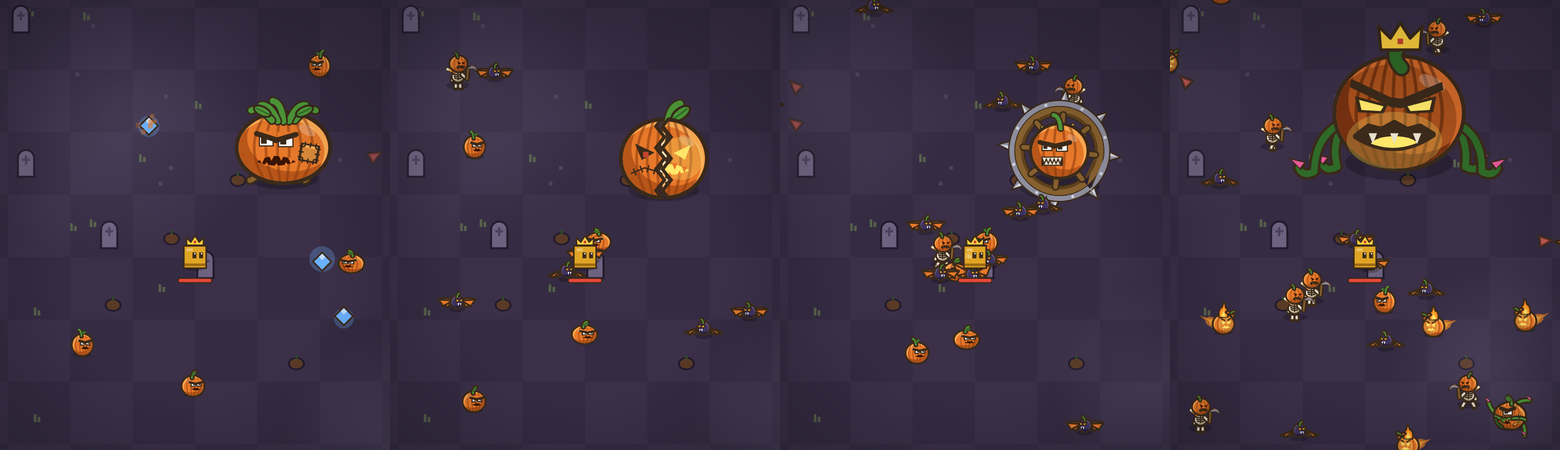
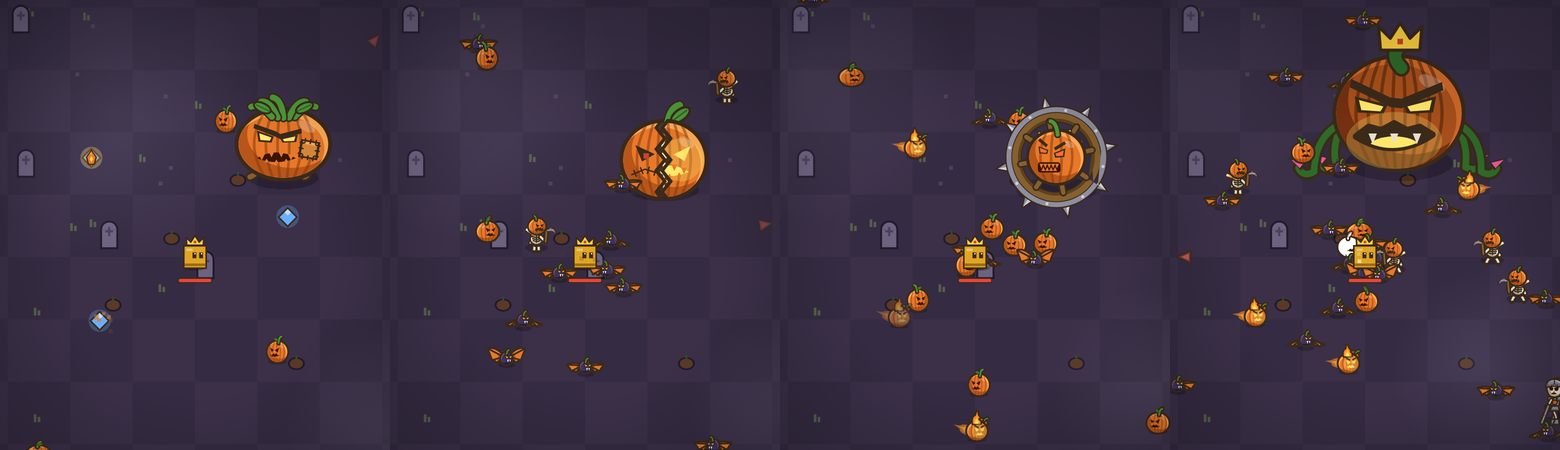
Dead eyes for every Halloween face; Skelly Knight replaces the Vine Gourd
- Pip: hollow carved eyes (the Candy Skel look) instead of glaring square eyes
- Patch Lord and Harvest Wheel: carved glowing eyes in the Night Gourd's form
  (new ceye helper), each with its own personality: Patch Lord squints in
  contempt under a crooked brow; Harvest Wheel's eyes glow ember-hot at a manic
  tilt and narrow to white-hot slits on the rev-up, with gritted carved teeth
- New Skelly Knight (sknight) takes the Vine Gourd's elite slot, numbers and
  snare role: original lanky skeleton knight (dead sockets, plumed helm,
  pumpkin-crest breastplate, cape, rusted sword). Grave Pin: raises its sword
  (tell, sockets kindle), then bone spikes erupt under the player
- Remove the unused white-eyeball eye() helper; style guide gains the
  dead-eyes rule; docs, review sheet and exports updated

diff --git a/public/index.html b/public/index.html
@@ -53,12 +53,12 @@ const EVQ=location.hostname==='crown-survivors.vercel.app'?null:new URLSearchPar
 const evState=e=>EVQ===e.id?'live':EVQ==='ended'?'ended':Date.now()<Date.parse(e.startAt)?'soon':Date.now()<Date.parse(e.endAt)?'live':'ended';
 const evLive=()=>EVENTS.find(e=>evState(e)==='live')||null,evPast=()=>EVENTS.filter(e=>evState(e)!=='soon').reverse(),evEnded=()=>EVENTS.some(e=>evState(e)==='ended');
 // ===== halloween endless ===== every number here comes from the balance table in docs/halloween-event.md
-Object.assign(ETYPE,{pip:{hp:8,spd:56,r:8,dmg:5,xp:1,c:'#e07820'},shade:{hp:6,spd:64,r:7,dmg:4,xp:1,c:'#2a2038'},cskel:{hp:34,spd:30,r:10,dmg:9,xp:3,c:'#e8e0cc'},jwisp:{hp:30,spd:70,r:8,dmg:9,xp:4,c:'#ffb13d',el:1},vgourd:{hp:60,spd:26,r:11,dmg:11,xp:5,c:'#3f8a3a',el:1}});
-Object.assign(GMAT,{pip:'pulp',shade:'red',cskel:'bone',jwisp:'pulp',vgourd:'pulp'});GORE.pulp={c:['#7a3208','#b0500e','#e07820','#ffb84a'],a:.9};
+Object.assign(ETYPE,{pip:{hp:8,spd:56,r:8,dmg:5,xp:1,c:'#e07820'},shade:{hp:6,spd:64,r:7,dmg:4,xp:1,c:'#2a2038'},cskel:{hp:34,spd:30,r:10,dmg:9,xp:3,c:'#e8e0cc'},jwisp:{hp:30,spd:70,r:8,dmg:9,xp:4,c:'#ffb13d',el:1},sknight:{hp:60,spd:26,r:11,dmg:11,xp:5,c:'#e8e0cc',el:1}});
+Object.assign(GMAT,{pip:'pulp',shade:'red',cskel:'bone',jwisp:'pulp',sknight:'bone'});GORE.pulp={c:['#7a3208','#b0500e','#e07820','#ffb84a'],a:.9};
 // cost = base × (1 + rankCost × (rank-1)); combo[rank-1][ritual] (rank 3+ reuses the last row); escorts get HW.escort of their HP
 const HW={drop:.3,embers:{elite:6,mini:15,gourd:30},cost:[40,70,110,160],rankCost:.5,countdown:2,bossHp:1,bossDmg:.2,escort:.6,crownGold:100,
  combo:[[['patch'],['twin'],['wheel'],['gourd']],[['patch','patch'],['twin','patch'],['wheel','twin'],['gourd','patch']],[['patch','twin'],['twin','wheel'],['wheel','twin','patch'],['gourd','wheel','twin']]],
- pool:[['pip','pip','pip','shade'],['pip','pip','shade','shade','cskel'],['pip','pip','shade','shade','cskel','jwisp'],['pip','shade','shade','cskel','cskel','jwisp','vgourd']]};
+ pool:[['pip','pip','pip','shade'],['pip','pip','shade','shade','cskel'],['pip','pip','shade','shade','cskel','jwisp'],['pip','shade','shade','cskel','cskel','jwisp','sknight']]};
 const HB={patch:{n:'PATCH LORD',hp:900,r:30,spd:36,dmg:18,c:'#d0661a'},twin:{n:'HOLLOW TWIN',hp:2400,r:30,spd:58,dmg:22,c:'#e07820'},wheel:{n:'HARVEST WHEEL',hp:4800,r:34,spd:44,dmg:26,c:'#8b6a42'},gourd:{n:'THE NIGHT GOURD',hp:10000,r:46,spd:30,dmg:30,c:'#c05812'}};
 // enemy scaling by tier = 4×(rank-1) + rituals cleared this rank (never elapsed time)
 const hwK=t=>({hp:1+1.4*t+.6*t*t,spd:Math.min(1.6,1+.06*t),dmg:1+.25*t,rate:Math.min(12,2+1.2*t)}),hwTier=()=>4*(G.hw.rank-1)+G.hw.step;
@@ -268,7 +268,7 @@ function update(dt){clock+=dt;if(trans){trans.t+=dt;if(trans.t>=.22&&!trans.done
    if(e.type==='harpy'&&l<190){sp*=-.2;e.shootT=(e.shootT||rnd(1,3))-dt;if(e.shootT<=0){e.shootT=rnd(3,4.5);const a0=Math.atan2(dy,dx);for(let i=-1;i<=1;i++)g.eb.push({x:e.x,y:e.y,vx:Math.cos(a0+i*.3)*120,vy:Math.sin(a0+i*.3)*120,r:4,dmg:e.dmg,l:3,c:'#eaf4ff'})}}
    if(e.type==='shade')sp*=1+.3*Math.sin(e.ph*5);
    if(e.type==='jwisp'){const a=Math.atan2(dy,dx)+(l<110?1.4:.6);e.x+=Math.cos(a)*sp*dt-dx/l*sp*dt;e.y+=Math.sin(a)*sp*dt-dy/l*sp*dt}
-   if(e.type==='vgourd'&&l<170){e.shootT-=dt;if(e.shootT<=0){e.shootT=rnd(4,6);tele({k:'c',x:p.x+rnd(-12,12),y:p.y+rnd(-12,12),r:26,T:1,dmg:e.dmg,c:'#7dff6a',slow:1.2,by:'horde',snd:()=>noise(.15,.08)})}}
+   if(e.type==='sknight'&&l<170){e.shootT-=dt;if(e.shootT<=0){e.shootT=rnd(4,6);tele({k:'c',x:p.x+rnd(-12,12),y:p.y+rnd(-12,12),r:26,T:1,dmg:e.dmg,c:'#efe6d2',slow:1.2,by:'horde',snd:()=>{noise(.12,.1);tone(900,.05,'square',.03,-400)}})}}
   if(e.boss)(e.hb?hwBossAI:bossAI)(e,dx,dy,l,dt);else{e.x+=dx/l*sp*dt;e.y+=dy/l*sp*dt}
   e.x+=e.kx*dt;e.y+=e.ky*dt;e.kx*=Math.pow(.02,dt);e.ky*=Math.pow(.02,dt);
   if(!e.boss&&e.type!=='ghost'){const cx=(e.x/CS)|0,cy=(e.y/CS)|0;for(let i=-1;i<=1;i++)for(let j=-1;j<=1;j++){const a=grid.get((cx+i)*7919+cy+j);if(a)for(const o of a){if(o===e)continue;const ox=e.x-o.x,oy=e.y-o.y,dd=ox*ox+oy*oy,rr2=(e.r+o.r)*.9;if(dd<rr2*rr2&&dd>.01){const d=Math.sqrt(dd),push=(rr2-d)*.5;e.x+=ox/d*push;e.y+=oy/d*push}}}}
@@ -370,7 +370,7 @@ function autopilot(){const g=G,p=g.p;let vx=0,vy=0;for(const e of g.en){const dx
 function hwInit(){const E=evLive();G.hw={ev:(E||EVENTS[0]).id,embers:0,got:0,rank:1,step:0,cleared:0,crowns:0,mini:0,gourds:0,first:null,live:[],hit:null,quit:0};G.curse=0;S.lastEvent=G.hw.ev;banner('GATHER SOUL EMBERS...','#ffb13d')}
 function hwSpawn(dt){const g=G,h=g.hw,t=hwTier(),k=hwK(t),pool=HW.pool[Math.min(t,HW.pool.length-1)];g.spawnAcc+=k.rate*(h.live.length?.55:1)*dt;
  while(g.spawnAcc>=1&&g.en.length<320){g.spawnAcc--;if(Math.random()<.04){for(let i=0;i<6;i++)spawnEnemy('shade')}else spawnEnemy(pool[Math.random()*pool.length|0])}
- g.eliteT-=dt;if(g.eliteT<=0){g.eliteT=42;spawnEnemy(t>=2?(Math.random()<.5?'jwisp':'vgourd'):pool[Math.random()*pool.length|0],true);banner('ELITE INCOMING!','#ff8a3d')}}
+ g.eliteT-=dt;if(g.eliteT<=0){g.eliteT=42;spawnEnemy(t>=2?(Math.random()<.5?'jwisp':'sknight'):pool[Math.random()*pool.length|0],true);banner('ELITE INCOMING!','#ff8a3d')}}
 function hwDrop(e){const n=e.hb?HW.embers[e.hb==='gourd'?'gourd':'mini']:e.elite?HW.embers.elite:(ETYPE[e.type]||{}).el?1:Math.random()<HW.drop?1:0,sp=n>1?(e.boss?40:14):0;
  for(let i=0;i<n;i++)G.gems.push({x:e.x+rnd(-sp,sp),y:e.y+rnd(-sp,sp),v:1,k:'ember'})}
 // rituals summon themselves: once embers cover the cost, a short countdown (the tell), then the bosses rise
@@ -486,15 +486,6 @@ function inkLine(P,w,c,rim=1.2){x.lineCap=x.lineJoin='round';x.beginPath();P();x
 const gloss=(cx,cy,rx,ry)=>{x.fillStyle=F('rgba(255,255,255,.24)');x.beginPath();x.ellipse(cx,cy,rx,ry,-.5,0,7);x.fill()};
 // pumpkin ribs inside an oval, in the ramp's deep tone; sh slides them sideways (a roll)
 function ribs(rx,ry,n,c,lw,sh=0){x.save();x.beginPath();oval(0,0,rx,ry)();x.clip();x.strokeStyle=F(c);x.lineWidth=lw;x.globalAlpha*=.55;for(let i=0;i<n;i++){const px=(((i+.5)/n+sh)%1*2-1)*rx*.95;x.beginPath();x.moveTo(px*.5,-ry);x.quadraticCurveTo(px*1.15,0,px*.5,ry);x.stroke()}x.restore()}
-// square eye looking forward (+x): o.lid 0..1 in o.lidC, o.brow angle (sign per side), o.white / o.pupil recolour it.
-// o.glare 0..1 cuts a slanted lid whose ink edge is the brow (low on the inner side: o.side -1 left eye, +1 right eye, 0 = one eye, V-shaped)
-function eye(cx,cy,w,h,o={}){x.fillStyle=pal.ink;x.fillRect(cx-w/2-.9,cy-h/2-.9,w+1.8,h+1.8);x.fillStyle=F(o.white||'#fff');x.fillRect(cx-w/2,cy-h/2,w,h);
- const pw=w*.46,ph=h*.62;x.fillStyle=o.pupil?F(o.pupil):pal.ink;x.fillRect(cx+w/2-pw-w*.08,cy-ph/2+h*.06,pw,ph);
- if(o.glare){const sd=o.side||0,g=h*o.glare,T0=cy-h/2-1.3,hi=cy-h/2+g*.12,lo=cy-h/2+g,L=cx-w/2-1.3,Rr=cx+w/2+1.3,yl=sd>0?lo:hi,yr=sd<0?lo:hi,ext=w*.14;
-  x.fillStyle=F(o.lidC);x.beginPath();x.moveTo(L,T0);x.lineTo(Rr,T0);x.lineTo(Rr,yr);if(!sd)x.lineTo(cx,lo);x.lineTo(L,yl);x.fill();
-  x.strokeStyle=pal.ink;x.lineWidth=(o.bw||1.1)*2;x.lineCap=x.lineJoin='round';x.beginPath();x.moveTo(L-ext,yl);if(!sd)x.lineTo(cx,lo);x.lineTo(Rr+ext,yr);x.stroke()}
- if(o.lid){x.fillStyle=F(o.lidC);x.fillRect(cx-w/2,cy-h/2,w,h*o.lid);x.fillStyle=pal.ink;x.fillRect(cx-w/2-.9,cy-h/2+h*o.lid-.7,w+1.8,1.4)}
- if(o.brow!=null){x.save();x.translate(cx,cy-h/2-(o.bg||1.8));x.rotate(o.brow);x.fillStyle=pal.ink;x.fillRect(-w*.7,-(o.bw||1.1),w*1.4,(o.bw||1.1)*2);x.restore()}}
 const tri=(cx,cy,s,c)=>{x.fillStyle=c;x.beginPath();x.moveTo(cx,cy-s);x.lineTo(cx-s,cy+s*.65);x.lineTo(cx+s,cy+s*.65);x.fill()};
 // carved jack-o'-lantern grin: a crescent with square teeth left in the skin colour
 function grin(cx,cy,w,h,c,teeth,skin){x.fillStyle=c;x.beginPath();x.moveTo(cx-w/2,cy-h*.3);x.quadraticCurveTo(cx,cy+h*.35,cx+w/2,cy-h*.3);x.quadraticCurveTo(cx,cy+h*1.05,cx-w/2,cy-h*.3);x.fill();
@@ -506,6 +497,11 @@ function snarl(cx,cy,w,h,c,skin,n=3){const L=cx-w/2,yc=cy+h*.2,top=t=>yc-1.5*h*t
 // angled carved eye: high outer corner, low inner corner (s -1 left eye, +1 right eye); rim > 0 adds an ink casing
 function slit(cx,cy,w,h,s,c,rim=0){const P=()=>{x.moveTo(cx+s*w/2,cy-h/2);x.lineTo(cx-s*w/2,cy+h*.05);x.lineTo(cx+s*w*.15,cy+h/2);x.closePath()};
  if(rim){x.lineJoin='round';x.fillStyle=x.strokeStyle=pal.ink;x.lineWidth=rim*2;x.beginPath();P();x.stroke();x.fill()}x.fillStyle=c;x.beginPath();P();x.fill()}
+// carved glowing eye in the Night Gourd's angular form: high outer corner, low inner corner (s -1 left, +1 right); c = glow colour
+function ceye(cx,cy,w,h,s,c){x.save();x.translate(cx,cy);x.scale(s,1);x.fillStyle=pal.ink;x.beginPath();x.moveTo(-w*.5,-h*.12);x.lineTo(w*.52,-h*.62);x.lineTo(w*.43,h*.32);x.lineTo(-w*.37,h*.4);x.fill();
+ x.fillStyle=c;x.beginPath();x.moveTo(-w*.36,-h*.04);x.lineTo(w*.38,-h*.4);x.lineTo(w*.31,h*.18);x.lineTo(-w*.27,h*.24);x.fill();x.restore()}
+// dead eye socket: a hollow with a slanted top (inner corner low) and a rounded bottom (s -1 left, +1 right)
+function socket(cx,cy,w,h,s,c){x.fillStyle=c;x.beginPath();x.moveTo(cx+s*w/2,cy-h/2);x.lineTo(cx-s*w/2,cy-h*.2);x.quadraticCurveTo(cx-s*w*.55,cy+h*.55,cx,cy+h/2);x.quadraticCurveTo(cx+s*w*.62,cy+h*.45,cx+s*w/2,cy-h/2);x.fill()}
 function stitch(x0,y0,x1,y1,n,w){x.strokeStyle=pal.ink;x.lineWidth=1.1;x.lineCap='round';x.beginPath();x.moveTo(x0,y0);x.lineTo(x1,y1);const dx=x1-x0,dy=y1-y0,L=Math.hypot(dx,dy)||1,nx=-dy/L*w,ny=dx/L*w;
  for(let i=0;i<n;i++){const t=(i+.5)/n,px=x0+dx*t,py=y0+dy*t;x.moveTo(px-nx,py-ny);x.lineTo(px+nx,py+ny)}x.stroke()}
 // curled stem rising from (x0,y0); k = curl direction
@@ -520,11 +516,11 @@ function flame(cx,by,w,h,sw,cols,rim=1.2){const P=k=>{const W2=w*k/2,H=h*k;x.mov
  x.lineJoin='round';if(rim){x.fillStyle=x.strokeStyle=pal.ink;x.lineWidth=rim*2;x.beginPath();P(1);x.stroke();x.fill()}cols.forEach((c,i)=>{x.fillStyle=F(c);x.beginPath();P(1-i*.3);x.fill()})}
 // --- trash + elite drawers: (r, frame 0-3, state 'n' | 't'), facing +x ---
 const SPRK={
- // PIP: mean little rolling pumpkin: glaring eyes, jagged scowl. Bounce squash/stretch, ribs scroll to fake the roll, leaf flips
+ // PIP: mean little rolling pumpkin: hollow carved eyes (the Candy Skel dead look), jagged scowl. Bounce squash/stretch, ribs scroll to fake the roll, leaf flips
  pip:(r,f)=>{const sy=[1,.9,1,1.08][f],rx=r*1.02,ry=r*.92;x.translate(0,[0,r*.1,0,-r*.12][f]);x.scale(1/sy,sy);
   shaded(oval(0,0,rx,ry),RAMP.pump,r*.26);ribs(rx,ry,4,RAMP.pump[3],r*.11,f/16);gloss(-r*.42,-r*.45,r*.2,r*.11);
   stemC(-r*.1,-ry,r*.55,f<2?1:-1);leaf(-r*.05,-ry-r*.08,r*.42,f%2?-.4:-.9);
-  eye(r*.04,-r*.2,r*.34,r*.36,{glare:.55,side:-1,lidC:RAMP.pump[1],bw:.9});eye(r*.55,-r*.22,r*.3,r*.36,{glare:.55,side:1,lidC:RAMP.pump[1],bw:.9});snarl(r*.28,r*.22,r*.92,r*.46,HOLLOW,RAMP.pump[1],3)},
+  slit(r*.05,-r*.16,r*.46,r*.42,-1,F(HOLLOW));slit(r*.56,-r*.18,r*.4,r*.38,1,F(HOLLOW));snarl(r*.28,r*.24,r*.92,r*.46,HOLLOW,RAMP.pump[1],3)},
  // SHADE BAT: purple-black bat, pumpkin-orange membranes over finger bones, a stem curl on its head, orange slit eyes (its accent)
  shade:(r,f)=>{const ty=[-r*1.05,-r*.25,r*.55,-r*.25][f],by=[r*.12,0,-r*.12,0][f];
   for(const s of[-1,1]){const S=[s*r*.3,by-r*.18],T=[s*r*1.95,by+ty],P1=[s*r*1.5,by+ty*.35+r*.5],P2=[s*r*1.0,by+ty*.15+r*.55],B=[s*r*.35,by+r*.3];
@@ -559,24 +555,41 @@ const SPRK={
   slit(r*.0,-r*.14,r*.46,r*.36,-1,F(GLOW));slit(r*.5,-r*.16,r*.4,r*.34,1,F(GLOW));x.fillStyle=pal.ink;
   x.save();x.translate(-r*.04,-r*.42);x.rotate(.5);x.fillRect(-r*.22,-r*.06,r*.44,r*.12);x.restore();x.save();x.translate(r*.54,-r*.44);x.rotate(-.5);x.fillRect(-r*.2,-r*.06,r*.4,r*.12);x.restore();
   snarl(r*.24,r*.24,r*.86,r*.44,F(GLOW),RAMP.pump[1],3)},
- // VINE GOURD: lumpy gourd strangled by a thorn vine, one big glaring eye above it, a fanged scowl below. Tendrils writhe;
- // on the tell they dig into the ground and the eye flares green
- vgourd:(r,f,st)=>{const T=st==='t',w=[0,1,2,1][f];
-  for(let i=0;i<3;i++){const a=[-2.5,-.55,2.2][i]+(T?0:(w-1)*.18*(i%2?1:-1)),L=r*1.75,tx=T?(i-1)*r*.9:Math.cos(a)*L,ty=T?r*1.15:Math.sin(a)*L,cx=Math.cos(a+.7)*r*1.2,cy=T?r*.5:Math.sin(a+.7)*r*1.2;
-   inkLine(()=>{x.moveTo(0,0);x.quadraticCurveTo(cx,cy,tx,ty)},r*.18,RAMP.stem[1]);
-   x.fillStyle=pal.ink;x.beginPath();x.moveTo(tx,ty+r*.06);x.lineTo(tx+r*.34,ty-r*.42);x.lineTo(tx-r*.16,ty-r*.16);x.fill();x.fillStyle=F(T?'#7dff6a':THORN);x.beginPath();x.moveTo(tx+r*.02,ty-r*.02);x.lineTo(tx+r*.25,ty-r*.33);x.lineTo(tx-r*.08,ty-r*.16);x.fill()}
-  // smooth lobes: quadratic curves through the midpoints of a bumpy ring
-  const pts=[];for(let i=0;i<10;i++){const a=i/10*6.283+.2,k=1+(i%2?.07:-.02)+(Math.sin(a)>0?.04:0);pts.push([Math.cos(a)*r*1.04*k,Math.sin(a)*r*.9*k])}
-  const lump=()=>{const m=i=>[(pts[i%10][0]+pts[(i+1)%10][0])/2,(pts[i%10][1]+pts[(i+1)%10][1])/2];x.moveTo(...m(0));for(let i=1;i<=10;i++)x.quadraticCurveTo(...pts[i%10],...m(i))};
-  shaded(lump,RAMP.pump,r*.24,1.8);ribs(r*1.04,r*.9,5,RAMP.pump[3],r*.08);
-  x.save();x.beginPath();lump();x.clip();x.fillStyle=F('rgba(47,106,40,.4)');[[-.62,.4,.24],[.55,.52,.18],[-.35,-.62,.16]].forEach(([a,b,c])=>{x.beginPath();x.ellipse(a*r,b*r,c*r,c*r*.7,.4,0,7);x.fill()});x.restore();
-  [[-.66,-.05],[.7,.15],[-.3,.66]].forEach(([a,b])=>{x.fillStyle=pal.ink;x.beginPath();x.arc(a*r,b*r,r*.1,0,7);x.fill();x.fillStyle=F(RAMP.pump[0]);x.beginPath();x.arc(a*r-r*.02,b*r-r*.02,r*.065,0,7);x.fill()});
-  inkLine(()=>{x.moveTo(-r*1.08,r*.3);x.bezierCurveTo(-r*.5,-r*.05,r*.3,r*.5,r*1.02,r*.05)},r*.13,RAMP.stem[1]);inkLine(()=>{x.moveTo(r*.55,r*.82);x.quadraticCurveTo(r*.95,r*.62,r*1.0,r*.25)},r*.1,RAMP.stem[2]);leaf(r*.25,r*.22,r*.42,.5);
-  for(const [px,py,a] of[[-r*.62,r*.18,-.5],[-r*.1,r*.26,.1],[r*.62,r*.22,-.3]]){x.save();x.translate(px,py);x.rotate(a);x.fillStyle=pal.ink;x.beginPath();x.moveTo(-r*.08,0);x.lineTo(0,-r*.24);x.lineTo(r*.08,0);x.fill();x.restore()}
-  eye(r*.16,-r*.3,r*.56,r*.46,{pupil:T?'#2f6a28':null,white:T?'#b8ff8a':'#fff',glare:T?.55:.42,side:0,lidC:RAMP.pump[1],bw:1.4});
-  snarl(r*.2,r*.44,r*.6,r*.34,HOLLOW,RAMP.pump[1],3);stemC(-r*.12,-r*.9,r*.5,1);leaf(-r*.04,-r*1.0,r*.45,-.7)}};
+ // SKELLY KNIGHT: a too-tall, too-thin skeleton knight. Oval skull with deep dead sockets and a fanged scowl, dented iron helm with a
+ // pumpkin-orange plume, breastplate stamped with a carved pumpkin crest, tattered night cape, a rusted sword dragged along the ground.
+ // Tell (Grave Pin): sword raised over the shoulder and the sockets kindle; bone spikes then erupt under the player
+ sknight:(r,f,st)=>{const T=st==='t',k=[1,0,-1,0][f],hb=[0,-r*.05,0,-r*.05][f],sw=[0,.12,0,-.12][f],bone=(P,w)=>inkLine(P,w,RAMP.bone[1]),sy=-r*1.4+hb;
+  // cape behind the shoulders, tattered hem swinging
+  x.fillStyle=pal.ink;const cape=()=>{x.beginPath();x.moveTo(-r*.26,-r*.72);x.quadraticCurveTo(-r*(.92+sw),-r*.1,-r*(.86+sw*1.5),r*.82);for(let i=0;i<4;i++)x.lineTo(-r*(.86+sw*1.5)+(i+.5)*r*.19,r*(i%2?.82:.64));x.lineTo(-r*.06,r*.36);x.closePath()};
+  x.lineJoin='round';x.lineWidth=2.4;x.strokeStyle=pal.ink;cape();x.stroke();x.fill();cape();x.fillStyle=F(RAMP.night[1]);x.fill();x.save();cape();x.clip();x.fillStyle=F(RAMP.night[2]);x.fillRect(-r*1.3,r*.2,r*1.4,r*.7);x.restore();
+  // long thin limbs: back arm, then legs with iron boots
+  bone(()=>{x.moveTo(-r*.24,-r*.62);x.lineTo(-r*.38-k*r*.08,-r*.22);x.lineTo(-r*.36-k*r*.12,r*.06)},r*.1);
+  for(const s of[-1,1]){const q=k*s,fx=s*r*.14+q*r*.26;bone(()=>{x.moveTo(s*r*.12,r*.06);x.lineTo(s*r*.12+q*r*.18,r*.5);x.lineTo(fx,r*.92)},r*.1);
+   shaded(()=>{x.moveTo(fx-r*.09,r*.76);x.lineTo(fx+r*.08,r*.76);x.lineTo(fx+r*.18,r*1.04);x.lineTo(fx-r*.12,r*1.04);x.closePath()},RAMP.iron,r*.04,1.2,0)}
+  // narrow breastplate, faulds, small pauldrons, carved pumpkin crest
+  shaded(()=>{x.moveTo(-r*.3,-r*.74);x.lineTo(r*.32,-r*.74);x.lineTo(r*.22,-r*.14);x.lineTo(-r*.2,-r*.14);x.closePath()},RAMP.iron,r*.09,1.4);
+  shaded(()=>{x.moveTo(-r*.21,-r*.16);x.lineTo(r*.23,-r*.16);x.lineTo(r*.27,r*.08);x.lineTo(-r*.25,r*.08);x.closePath()},RAMP.iron,r*.05,1.2,0);
+  for(const s of[-1,1])shaded(oval(s*r*.31,-r*.72,r*.14,r*.1),RAMP.iron,r*.04,1.2);
+  shaded(oval(r*.02,-r*.46,r*.13,r*.12),RAMP.pump,r*.04,1.1,0);slit(-r*.02,-r*.49,r*.08,r*.07,-1,F(HOLLOW));slit(r*.07,-r*.49,r*.07,r*.06,1,F(HOLLOW));
+  x.fillStyle=pal.ink;x.fillRect(-r*.05,-r*.9,r*.1,r*.18);x.fillStyle=F(RAMP.bone[1]);x.fillRect(-r*.03,-r*.88,r*.06,r*.05);
+  // front arm + rusted sword dragged point-down (on the tell it is raised in front of the skull, drawn last)
+  const blade=(x0,y0,x1,y1)=>{inkLine(()=>{x.moveTo(x0,y0);x.lineTo(x1,y1)},r*.11,RAMP.iron[1],1.3);inkLine(()=>{x.moveTo(x0+(x1-x0)*.15,y0+(y1-y0)*.15);x.lineTo(x0+(x1-x0)*.85,y0+(y1-y0)*.85)},r*.03,RAMP.iron[0],0);
+   x.fillStyle=F('#b0602a');x.fillRect(x0+(x1-x0)*.55-r*.04,y0+(y1-y0)*.55-r*.04,r*.08,r*.08)};
+  if(!T){bone(()=>{x.moveTo(r*.26,-r*.64);x.lineTo(r*.42,-r*.34);x.lineTo(r*.46,-r*.14)},r*.1);inkLine(()=>{x.moveTo(r*.32,-r*.16);x.lineTo(r*.62,-r*.18)},r*.07,RAMP.wood[1],1.1);blade(r*.47,-r*.2,r*.92,r*.96)}
+  // skull: tall oval, wider at the crown
+  x.save();x.translate(r*.04,sy);x.scale(.9,.9);const sk=()=>{x.moveTo(0,-r*.62);x.bezierCurveTo(r*.66,-r*.62,r*.62,r*.18,r*.3,r*.5);x.quadraticCurveTo(0,r*.64,-r*.3,r*.5);x.bezierCurveTo(-r*.62,r*.18,-r*.66,-r*.62,0,-r*.62);x.closePath()};
+  shaded(sk,RAMP.bone,r*.12,1.6);
+  socket(-r*.16,-r*.02,r*.34,r*.36,-1,F(HOLLOW));socket(r*.24,-r*.04,r*.3,r*.34,1,F(HOLLOW));
+  if(T){x.fillStyle=F(GLOW);x.beginPath();x.arc(-r*.14,r*.03,r*.06,0,7);x.arc(r*.23,r*.02,r*.055,0,7);x.fill()}
+  x.fillStyle=F(HOLLOW);x.beginPath();x.moveTo(r*.03,r*.14);x.lineTo(-r*.03,r*.26);x.lineTo(r*.09,r*.26);x.fill();snarl(r*.04,r*.31,r*.46,r*.24,F(HOLLOW),RAMP.bone[0],4);
+  // dented iron helm over the crown, pumpkin-orange plume streaming back
+  const hm=()=>{x.moveTo(-r*.6,-r*.2);x.bezierCurveTo(-r*.62,-r*.86,r*.62,-r*.86,r*.6,-r*.2);x.lineTo(r*.46,-r*.24);x.quadraticCurveTo(0,-r*.36,-r*.46,-r*.24);x.closePath()};
+  for(let i=0;i<3;i++){const L=r*(1.05-i*.2);inkLine(()=>{x.moveTo(0,-r*.66);x.quadraticCurveTo(-L*.45,-r*.92+i*r*.08,-L,-r*.5+i*r*.12+sw*r*.5)},r*(.16-i*.03),RAMP.pump[i],1.1)}
+  shaded(hm,RAMP.iron,r*.1,1.5);x.fillStyle=pal.ink;x.fillRect(-r*.04,-r*.76,r*.08,r*.5);[-.34,0,.34].forEach(v=>{x.fillStyle=F(RAMP.iron[0]);x.beginPath();x.arc(v*r,-r*.3,r*.035,0,7);x.fill()});
+  x.restore();
+  if(T){bone(()=>{x.moveTo(r*.26,-r*.64);x.lineTo(r*.52,-r*.9);x.lineTo(r*.58,-r*1.18)},r*.1);blade(r*.58,-r*1.22,r*.98,-r*2.18);inkLine(()=>{x.moveTo(r*.42,-r*1.2);x.lineTo(r*.76,-r*1.3)},r*.07,RAMP.wood[1],1.1)}}};
 // per drawer: frame rate (frames per unit of e.ph) and half-size of its cached box in radii (tight boxes keep blits cheap)
-const SPRF={pip:10,shade:14,cskel:6,jwisp:8,vgourd:5},SPRR={pip:1.6,shade:2.1,cskel:1.75,jwisp:2.45,vgourd:2.2};
+const SPRF={pip:10,shade:14,cskel:6,jwisp:8,sknight:6},SPRR={pip:1.6,shade:2.1,cskel:1.75,jwisp:2.45,sknight:2.35};
 // cache: one canvas per (type, r, frame, state, FL, scale bucket); keys carry the scale, so a resize just starts new entries
 const SPR=new Map();
 // frames render at the exact device scale and blit 1:1, so sampling is near pixel-exact (crisp, and cheap on CPU and GPU canvases)
@@ -584,9 +597,10 @@ function sprite(id,r,f,st){const s=Math.round((Math.abs(x.getTransform().a)||1)*
  if(!c){if(SPR.size>900)SPR.clear();const R=Math.ceil(r*SPRR[id]*s);c=document.createElement('canvas');c.width=c.height=R*2;const o=x;x=c.getContext('2d');try{x.setTransform(s,0,0,s,R,R);SPRK[id](r,f,st)}finally{x=o}SPR.set(key,c)}
  const h=c.width/2/s;x.drawImage(c,-h,-h,h*2,h*2)}
 function hwEnemyS(e,T,r,fl){if(scene==='play'&&G){const d=G.p.x-e.x;if(Math.abs(d)>3)e.fc=d<0?-1:1}if(e.fc<0)x.scale(-1,1);if(T==='jwisp'&&Math.sin(e.ph*9)>.85)x.globalAlpha=.55;
- FL=fl?1:0;sprite(T,r,((e.ph*SPRF[T])|0)&3,T==='vgourd'&&e.shootT<.5?'t':'n');FL=0;x.globalAlpha=1}
+ FL=fl?1:0;sprite(T,r,((e.ph*SPRF[T])|0)&3,T==='sknight'&&e.shootT<.5?'t':'n');FL=0;x.globalAlpha=1}
 // --- ritual bosses: drawn live (at most 3 on screen), poses read from the AI state (tell / next / dash / bph / vol / pose) ---
-// PATCH LORD: fat pumpkin tyrant, crown of curled stems, sewn-on cheek patch, glaring eyes, fanged scowl. Tell: rears up, eyes wide, roars, then slams
+// PATCH LORD: vain pumpkin tyrant, crown of curled stems, sewn-on cheek patch, carved glowing eyes (one squints in contempt) under a crooked brow,
+// fanged scowl. Tell: rears up, eyes blaze wide, roars, then slams
 function patchS(e,r){const T=e.tell>0&&e.next==='slam',s=T?Math.min(1,(.7-e.tell)/.5):0,ft=[0,1,0,-1][((e.ph*5)|0)&3];
  if(s){x.globalAlpha=.2*s;x.fillStyle=F(GLOW);x.beginPath();x.arc(0,-r*.1,r*1.5,0,7);x.fill();x.globalAlpha=.9*s;x.strokeStyle=F('#ffd23f');x.lineWidth=3;x.stroke();x.globalAlpha=1}
  for(const k of[-1,0,1]){const fy=r*.8+(k?ft*k*r*.06:0);inkLine(()=>{x.moveTo(k*r*.55,r*.5);x.quadraticCurveTo(k*r*.7,fy,k*r*.7+r*.16,fy+r*.04)},r*.13,RAMP.wood[1],1.5)}
@@ -595,7 +609,9 @@ function patchS(e,r){const T=e.tell>0&&e.next==='slam',s=T?Math.min(1,(.7-e.tell
  for(let i=-2;i<=2;i++){x.save();x.translate(i*rx*.16,-ry*.93);x.rotate(i*.32);stemC(0,0,r*.5,i<0?-1:1);x.restore()}leaf(-r*.35,-ry*.98,r*.42,-2.7);leaf(r*.35,-ry*.98,r*.42,-.45);
  x.save();x.translate(-r*.66,r*.14);x.rotate(-.18);x.fillStyle=pal.ink;x.fillRect(-r*.25,-r*.23,r*.5,r*.46);x.fillStyle=F('#d98a3a');x.fillRect(-r*.21,-r*.19,r*.42,r*.38);x.fillStyle=F(RAMP.pump[0]);x.fillRect(-r*.21,-r*.19,r*.42,r*.07);
  const q=r*.21;stitch(-q,-q,q,-q,3,r*.05);stitch(q,-q,q,q,3,r*.05);stitch(q,q,-q,q,3,r*.05);stitch(-q,q,-q,-q,3,r*.05);x.restore();
- eye(-r*.06,-r*.2,r*.34,r*.32,{glare:T?.2:.55,side:-1,lidC:RAMP.pump[1],bw:2});eye(r*.44,-r*.22,r*.32,r*.32,{glare:T?.2:.55,side:1,lidC:RAMP.pump[1],bw:2});
+ // carved glowing eyes under a crooked brow ridge: one squints in contempt, the other glares; both blaze wide on the tell
+ x.fillStyle=pal.ink;x.beginPath();x.moveTo(-r*.46,-r*.4);x.lineTo(r*.08,-r*.26);x.lineTo(r*.2,-r*.33);x.lineTo(r*.74,-r*.52);x.lineTo(r*.77,-r*.41);x.lineTo(r*.2,-r*.19);x.lineTo(r*.08,-r*.13);x.lineTo(-r*.47,-r*.28);x.fill();
+ ceye(-r*.14,-r*.12,r*.44,r*(T?.34:.2),-1,F(GLOW));ceye(r*.46,-r*.16,r*.42,r*(T?.38:.3),1,F(GLOW));
  snarl(r*.18,r*.28,r*1.0,r*(.4+.45*s),HOLLOW,RAMP.pump[1],4);x.restore()}
 // HOLLOW TWIN: one pumpkin split down a jagged crack. Far half: glowing carved glare and scowl; near half: stitched frown, one red eye in a hollow socket; pulp and seeds between.
 // Fan tell: the halves part and the seeds glow. Dash tell: it leans in
@@ -608,7 +624,8 @@ function twinS(e,r){const fan=e.tell>0&&e.next==='fan',s=fan?Math.min(1,(.5-e.te
   if(sd<0){gloss(-r*.55,-r*.45,r*.22,r*.12);x.globalAlpha=.28;x.fillStyle=F(GLOW);x.beginPath();x.arc(-r*.42,0,r*.55,0,7);x.fill();x.globalAlpha=1;slit(-r*.44,-r*.16,r*.44,r*.38,-1,F(GLOW));snarl(-r*.12,r*.22,r*1.0,r*.44,F(GLOW),RAMP.pump[1],4)}
   else{slit(r*.46,-r*.17,r*.5,r*.42,1,pal.ink);x.fillStyle=F('#c8452f');x.fillRect(r*.36,-r*.17,r*.14,r*.14);stitch(r*.12,r*.34,r*.46,r*.24,2,r*.08);stitch(r*.46,r*.24,r*.8,r*.38,2,r*.08)}
   x.beginPath();oval(0,0,r*1.02+3,r*.95+3)();x.clip();x.strokeStyle=pal.ink;x.lineWidth=5;x.lineJoin='miter';x.beginPath();Z.forEach(([a,b],i)=>i?x.lineTo(a,b):x.moveTo(a,b));x.stroke();x.restore()}}
-// HARVEST WHEEL: angry pumpkin hub in a spiked, iron-banded cartwheel with straw poking out. Rev-up: spokes blur and the face strains
+// HARVEST WHEEL: frenzied pumpkin hub in a spiked, iron-banded cartwheel with straw poking out; carved eyes glow ember-hot from the spin.
+// Rev-up: spokes blur and the eyes narrow to white-hot slits
 function wheelS(e,r){const rev=e.tell>0&&e.next==='roll'||e.dash>0;x.save();x.rotate(e.spin||0);
  for(let i=0;i<8;i++){const b=i*Math.PI/4,P=(m,o=0)=>[Math.cos(b+o)*r*m,Math.sin(b+o)*r*m];x.fillStyle=pal.ink;x.beginPath();x.moveTo(...P(1.08,.14));x.lineTo(...P(1.44,0));x.lineTo(...P(1.08,-.14));x.fill();
   x.fillStyle=F(RAMP.iron[1]);x.beginPath();x.moveTo(...P(1.1,.09));x.lineTo(...P(1.35,0));x.lineTo(...P(1.1,-.09));x.fill();x.fillStyle=F(RAMP.iron[0]);x.beginPath();x.moveTo(...P(1.1,.09));x.lineTo(...P(1.35,0));x.lineTo(...P(1.12,0));x.fill()}
@@ -619,8 +636,11 @@ function wheelS(e,r){const rev=e.tell>0&&e.next==='roll'||e.dash>0;x.save();x.ro
  if(rev){x.globalAlpha=.4;x.strokeStyle=F(RAMP.wood[0]);x.lineWidth=r*.3;for(let i=0;i<4;i++){x.beginPath();x.arc(0,0,r*.62,i*1.571,i*1.571+.9);x.stroke()}x.globalAlpha=1}x.restore();
  for(let i=0;i<5;i++){const b=-2.6+i*.55;inkLine(()=>{x.moveTo(Math.cos(b)*r*.35,Math.sin(b)*r*.35);x.lineTo(Math.cos(b)*r*.66,Math.sin(b)*r*.66)},r*.05,'#e8c860',.9)}
  const h=r*.58;shaded(oval(0,0,h*1.06,h),RAMP.pump,h*.24,2.4);ribs(h*1.06,h,4,RAMP.pump[3],h*.1);gloss(-h*.5,-h*.5,h*.22,h*.12);stemC(-h*.05,-h,h*.5,1);
- eye(-h*.1,-h*.18,h*.38,h*.34,{glare:rev?.72:.5,side:-1,lidC:RAMP.pump[1],bw:1.8});eye(h*.48,-h*.2,h*.34,h*.32,{glare:rev?.72:.5,side:1,lidC:RAMP.pump[1],bw:1.8});
- x.fillStyle=pal.ink;x.fillRect(-h*.14,h*.22,h*.84,h*.36);x.fillStyle=F(RAMP.bone[1]);for(let k=0;k<5;k++){const tx=-h*.1+k*h*.152;x.beginPath();x.moveTo(tx,h*.26);x.lineTo(tx+h*.152,h*.26);x.lineTo(tx+h*.076,h*.44);x.fill();
+ // overheated carved eyes at a manic tilt under sharp separate brows; they narrow to white-hot slits on the rev-up
+ const ec=F(rev?GLOW:HOT);ceye(-h*.12,-h*.12,h*.44,h*(rev?.18:.36),-1,ec);ceye(h*.5,-h*.24,h*.38,h*(rev?.16:.3),1,ec);
+ x.fillStyle=pal.ink;x.save();x.translate(-h*.14,-h*.44);x.rotate(.55);x.fillRect(-h*.24,-h*.06,h*.48,h*.12);x.restore();x.save();x.translate(h*.52,-h*.56);x.rotate(-.7);x.fillRect(-h*.2,-h*.06,h*.4,h*.12);x.restore();
+ // gritted carved teeth
+ rr(-h*.16,h*.2,h*.88,h*.4,h*.1,F(HOLLOW));x.fillStyle=F(RAMP.pump[1]);for(let k=0;k<5;k++){const tx=-h*.1+k*h*.152;x.beginPath();x.moveTo(tx,h*.26);x.lineTo(tx+h*.152,h*.26);x.lineTo(tx+h*.076,h*.44);x.fill();
   if(k<4){x.beginPath();x.moveTo(tx+h*.076,h*.54);x.lineTo(tx+h*.228,h*.54);x.lineTo(tx+h*.152,h*.38);x.fill()}}}
 // THE NIGHT GOURD: massive dark pumpkin, gold crown fused to a twisted stem, fanged maw glowing from inside (its one glow), thorn roots to the ground.
 // P2: glowing crack seams. P3: the top breaks open and burns, glow turns hot. Tells: maw opens (volley/spiral), roots glow (vines), eyes flare (rain), lean (charge)
@@ -655,20 +675,20 @@ function drawSheet(){const k=Math.min(W/1600,H/1100),u=U;x.fillStyle='#1c1624';x
  pix('HALLOWEEN ENEMIES',800,34,24,'#ffb13d',0,'#e07820');txt('Sprite Kit v2  ·  drawn by the live game code  ·  docs/sprite-kit.md',800,64,12,pal.paper,'center',false);
  rr(20,84,1010,566,14,'#3b3048',pal.ink,3);rr(250+6*108-50,98,100,544,10,'#f3e2b8');
  ['FRAME 1','FRAME 2','FRAME 3','FRAME 4','HIT FLASH','TELL','SILHOUETTE'].forEach((h,i)=>txt(h,250+i*108,108,9,i===6?'#8b6a3a':'#c9b8e8','center',false));
- [['pip','PIP','trash · fast fodder'],['shade','SHADE BAT','trash · flyer'],['cskel','CANDY SKEL','trash · walker'],['jwisp','JACK WISP','elite · elusive'],['vgourd','VINE GOURD','elite · snare']].forEach(([id,n,role],i)=>{
+ [['pip','PIP','trash · fast fodder'],['shade','SHADE BAT','trash · flyer'],['cskel','CANDY SKEL','trash · walker'],['jwisp','JACK WISP','elite · elusive'],['sknight','SKELLY KNIGHT','elite · grave pin']].forEach(([id,n,role],i)=>{
   const y=172+i*104,r=ETYPE[id].r,s=2.3;txt(n,36,y-12,15,'#ffb13d','left');txt(role,36,y+10,10,'#c9b8e8','left',false);
   for(let f=0;f<4;f++)at(250+f*108,y,s,()=>{sh(r);sprite(id,r,f,'n')});
   at(250+4*108,y,s,()=>{FL=1;sprite(id,r,0,'n');FL=0});
-  if(id==='vgourd')at(250+5*108,y,s,()=>{sh(r);sprite(id,r,1,'t')});else txt('—',250+5*108,y,14,'#6d6280','center',false);
+  if(id==='sknight')at(250+5*108,y,s,()=>{sh(r);sprite(id,r,1,'t')});else txt('—',250+5*108,y,14,'#6d6280','center',false);
   at(250+6*108,y,s,()=>{FL=2;sprite(id,r,0,'n');FL=0})});
  // phone scale: the same sprites at in-game size on the arena ground
  rr(1046,84,534,566,14,'#3b3048',pal.ink,3);txt('IN-GAME SCALE (PHONE)',1313,104,9,'#c9b8e8','center',false);
  x.save();x.beginPath();x.rect(1052,118,522,526);x.clip();x.translate(1052,118);x.scale(1.3,1.3);x.fillStyle=HPH.g;x.fillRect(0,0,410,410);
  for(let tx=0;tx<9;tx++)for(let ty=0;ty<9;ty++){if((tx+ty)&1){x.fillStyle=HPH.g2;x.fillRect(tx*48,ty*48,48,48)}hwProps(tx,ty,48,((tx*73856093)^(ty*19349663))>>>0)}
  heroS(200,200,0,1,clock*8,1,false);
- [['pip',118,118],['pip',150,175],['pip',262,142],['shade',300,88],['shade',96,252],['cskel',252,262],['cskel',140,305],['jwisp',330,215],['vgourd',78,158],['pip',308,322],['shade',190,92],['pip',220,345]].forEach(([id,px,py],i)=>{
+ [['pip',118,118],['pip',150,175],['pip',262,142],['shade',300,88],['shade',96,252],['cskel',252,262],['cskel',140,305],['jwisp',330,215],['sknight',78,158],['pip',308,322],['shade',190,92],['pip',220,345]].forEach(([id,px,py],i)=>{
   const r=ETYPE[id].r;x.save();x.translate(px,py);sh(r);if(px>200)x.scale(-1,1);if(id==='jwisp'&&Math.sin(clock*9+i)>.85)x.globalAlpha=.55;sprite(id,r,((clock*SPRF[id]+i)|0)&3,'n');x.restore()});
- x.save();x.translate(345,345);const er=ETYPE.vgourd.r*1.8;sh(er);x.strokeStyle='rgba(255,210,63,'+(.5+.4*Math.sin(clock*8))+')';x.lineWidth=2;x.beginPath();x.arc(0,0,er+4,0,7);x.stroke();x.scale(-1,1);sprite('vgourd',er,((clock*5)|0)&3,'n');x.restore();
+ x.save();x.translate(345,345);const er=ETYPE.sknight.r*1.8;sh(er);x.strokeStyle='rgba(255,210,63,'+(.5+.4*Math.sin(clock*8))+')';x.lineWidth=2;x.beginPath();x.arc(0,0,er+4,0,7);x.stroke();x.scale(-1,1);sprite('sknight',er,((clock*6)|0)&3,'n');x.restore();
  x.restore();txt('elite (8× HP) shown bottom-right',1313,632,9,'#c9b8e8','center',false);
  // ritual bosses: poses straight from the AI state
  [['patch','PATCH LORD','MINI-BOSS · M1',[{},{tell:.25,next:'slam'}],['IDLE','SLAM TELL'],1.6],['twin','HOLLOW TWIN','MINI-BOSS · M2',[{},{tell:.2,next:'fan'},{tell:.4,next:'dash'}],['IDLE','FAN TELL','DASH TELL'],1.45],
@@ -727,7 +747,7 @@ function drawWorld(){const g=G,p=g.p,ph=g.hw?HPH:PHASE[Math.min(PHASE.length-1,g
  for(const q of g.gems)if(Math.abs(q.x-p.x)<vw&&Math.abs(q.y-p.y)<vh)gemS(q);
  const vis=g.en.filter(e=>Math.abs(e.x-p.x)<vw&&Math.abs(e.y-p.y)<vh).sort((a,b)=>a.y-b.y);x.imageSmoothingEnabled=false;for(const e of vis)enemyS(e);x.imageSmoothingEnabled=true;
  if(!(p.inv>0&&Math.sin(clock*50)>0))heroS(p.x,p.y,g.char,1,p.walk,p.face,(clock%3.2)<.1);
- if(p.snare>0){x.globalAlpha=Math.min(1,p.snare*2);x.strokeStyle=pal.ink;x.lineWidth=3.5;x.beginPath();x.ellipse(p.x,p.y+8,12,4.5,0,0,7);x.stroke();x.strokeStyle='#7dff6a';x.lineWidth=1.8;x.setLineDash([3,2]);x.stroke();x.setLineDash([]);x.globalAlpha=1}
+ if(p.snare>0){x.globalAlpha=Math.min(1,p.snare*2);x.strokeStyle=pal.ink;x.lineWidth=3.5;x.beginPath();x.ellipse(p.x,p.y+8,12,4.5,0,0,7);x.stroke();x.strokeStyle='#efe6d2';x.lineWidth=1.8;x.setLineDash([3,2]);x.stroke();x.setLineDash([]);x.globalAlpha=1}
  if(g.w.orb){const l=g.w.orb,n=g.evo.orb?8:[1,2,2,3,5][l-1],R=(g.evo.orb?75:48)*SC.area;for(let i=0;i<n;i++){const a=g.orbA+i*6.283/n,ox=p.x+Math.cos(a)*R,oy=p.y+Math.sin(a)*R;x.fillStyle=pal.ink;x.beginPath();x.arc(ox,oy,7*SC.area,0,7);x.fill();x.fillStyle=pal.gold;x.beginPath();x.arc(ox,oy,5.5*SC.area,0,7);x.fill();x.fillStyle='#e0a526';x.fillRect(ox-1,oy-3,2,6)}}
  for(const b of g.pr){if(b.t==='bolt'){x.fillStyle='rgba(255,243,196,.5)';x.beginPath();x.arc(b.x-b.vx*.02,b.y-b.vy*.02,b.r*.8,0,7);x.fill();x.fillStyle=pal.ink;x.beginPath();x.arc(b.x,b.y,b.r+1,0,7);x.fill();x.fillStyle=g.evo.bolt?'#ff8a3d':pal.gold;x.beginPath();x.arc(b.x,b.y,b.r,0,7);x.fill()}
   else{x.save();x.translate(b.x,b.y);x.rotate(clock*15);const s=b.r;x.fillStyle=pal.ink;x.fillRect(-s-1,-s*.3-1,2*s+2,s+2);x.fillStyle='#c9a0ff';x.beginPath();x.moveTo(-s,s*.5);x.lineTo(-s,-s*.5);x.lineTo(-s*.5,0);x.lineTo(0,-s*.7);x.lineTo(s*.5,0);x.lineTo(s,-s*.5);x.lineTo(s,s*.5);x.fill();x.restore()}}
@@ -805,7 +825,7 @@ function drawOver(){const g=G,o=g.over;if(g.hw)return hwOver();const {px,pw}=pan
  overButtons(()=>go('play',startRun),'#c8452f')}
 // ===== menus =====
 // while an event is live the menus wear its skin: warm parchment checker (per the v0 direction), its roster orbiting, dusk vignette
-const EVSKIN={halloween:{g:'#e6be86',g2:'#d9a86a',orbit:['pip','shade','cskel','jwisp','vgourd'],vig:'rgba(45,12,40,.78)'}};
+const EVSKIN={halloween:{g:'#e6be86',g2:'#d9a86a',orbit:['pip','shade','cskel','jwisp','sknight'],vig:'rgba(45,12,40,.78)'}};
 function menuBg(){const E=evLive(),sk=E&&EVSKIN[E.theme],ph=sk||PHASE[Math.abs(Math.floor(clock/12))%PHASE.length];x.fillStyle=ph.g;x.fillRect(0,0,W,H);const T=48*U,o=clock*20*U;for(let i=-1;i<W/T+1;i++)for(let j=-1;j<H/T+1;j++){if((i+j)&1){x.fillStyle=ph.g2;x.fillRect(i*T-(o%T),j*T+(o%T),T,T)}}
  const orb=sk?sk.orbit:['blob','bat','skel','ghost','imp','vine','frog','wisp','harpy'];for(let i=0;i<14;i++){const a=clock*.5+i*.45,R=(140+(i%3)*30)*U;const ex=W/2+Math.cos(a)*R,ey=H*.42+Math.sin(a)*R*.7;x.save();x.translate(ex,ey);x.scale(U*1.4,U*1.4);enemyS({type:orb[i%orb.length],x:0,y:0,r:9,ph:clock+i,flash:0});x.restore()}
  const vg=x.createRadialGradient(W/2,H/2,Math.min(W,H)*.3,W/2,H/2,Math.max(W,H)*.75);vg.addColorStop(0,'rgba(0,0,0,0)');vg.addColorStop(1,sk?sk.vig:'rgba(30,15,5,.7)');x.fillStyle=vg;x.fillRect(0,0,W,H)}

diff --git a/docs/sprite-kit.md b/docs/sprite-kit.md
@@ -32,9 +32,12 @@ Readability rules:
 - Orange on deep purple is the core contrast. Faces must survive at 1× game scale on a phone (about 20 device px radius for trash).
 - **One accent glow max** per enemy (artist brief). Props stay faceless so they never read as enemies.
 - No gore, no candy mascots, no licensed characters. Pumpkin-first.
-- **Menacing, not goofy** (revision 2). Lids and brows slant down toward the face centre (`eye` with `glare`). Carved eyes are angled
-  (`slit`), never upright triangles. Mouths scowl with the corners down and show fangs (`snarl`). No upturned smiles, no buck teeth.
+- **Menacing, not goofy** (revisions 2–3). Mouths scowl with the corners down and show fangs (`snarl`); no upturned smiles, no buck teeth.
   Stay in the house style: chunky, readable and mean, never horror-realistic.
+- **Dead eyes only** (revision 3). No white eyeballs or pupils on any Halloween character. Trash and elites have hollow carved eyes
+  (`slit`, the Candy Skel look) or dead sockets (`socket`, Skelly Knight). Bosses have carved glowing jack-o'-lantern eyes (`ceye`, the Night
+  Gourd's angular form, also Hollow Twin's carved half), each with its own personality: Patch Lord squints in contempt under a crooked
+  brow ridge, Harvest Wheel's eyes glow ember-hot at a manic tilt.
 
 ## 3. Palette ramps (`RAMP` in code)
 
@@ -54,14 +57,14 @@ Every brief lists the silhouette hook, the detail layers, the 4-frame cycle and 
 
 | Character | Concept | Silhouette hook | Detail layers | 4-frame cycle | Tell |
 | --- | --- | --- | --- | --- | --- |
-| **Pip** (trash, r8) | Mean little rolling pumpkin | squat ball + curly stem | ribs that scroll to fake the roll; glaring square eyes; fanged scowl | bounce squash/stretch, ribs scroll, leaf flips | — |
+| **Pip** (trash, r8) | Mean little rolling pumpkin | squat ball + curly stem | ribs that scroll to fake the roll; hollow carved eyes (Candy Skel's dead look); fanged scowl | bounce squash/stretch, ribs scroll, leaf flips | — |
 | **Shade Bat** (trash, r7) | Purple-black bat with pumpkin-orange wing membranes and a stem curl on its head | wide scalloped wings | finger bones over orange membrane; ears, long fangs; angled orange slit eyes (its accent) | up / mid / down / mid flap, body bobs opposite | — |
 | **Candy Skel** (trash, r10) | Bone skeleton with a carved pumpkin head, ragged candy-corn scarf, rusty sickle | tall: head on top + sickle hook | ribcage + pelvis; pumpkin head with angled carved eyes and a stitched frown; scarf; sickle | 2-step walk (legs alternate, head bobs, scarf swings) | — |
 | **Jack Wisp** (elite, r8) | Jack-o'-lantern whose lid is knocked open; a flame climbs out of the top and trails behind as it floats | teardrop: lantern + flame tail | cracked lid; three-tongue flame; glowing angled eyes and fanged scowl (its one glow); ghost-flame tail away from the player | flame flickers through 4 shapes, bob | flicker to half alpha (elusive) |
-| **Vine Gourd** (elite, r11) | Lumpy warty gourd strangled by thorn vines; one big eye peers out between them | lumpy blob + 3 lashing tendrils | smooth lobed body; green mottles; one strangling vine; V-glaring cyclops eye; fanged scowl | tendrils writhe through 4 poses | tendrils dig into the ground, eye flares green before a snare |
-| **Patch Lord** (M1, r30) | Fat pumpkin tyrant with a crown of curled stems and a sewn-on patch | wide squat body + stem crown | 6 ribs, stitched cheek patch, glaring lids, wide fanged scowl, root feet | feet shuffle, body sways | rears up tall, eyes wide, roars, glow ring → slam squash |
+| **Skelly Knight** (elite, r11) | A too-tall, too-thin skeleton knight (original design; nods to the lanky hollow-eyed skeleton look without copying any licensed character) | tall oval skull in a plumed helm, sword dragged behind | dead sockets + fanged scowl; dented iron helm with a pumpkin-orange plume; narrow breastplate with a carved pumpkin crest; tattered night cape; rusted sword | 2-step walk, cape and plume sway | Grave Pin: sword raised in front of the skull, sockets kindle |
+| **Patch Lord** (M1, r30) | Fat pumpkin tyrant with a crown of curled stems and a sewn-on patch | wide squat body + stem crown | 6 ribs, stitched cheek patch, carved glowing eyes under a crooked brow ridge (one squints in contempt), wide fanged scowl, root feet | feet shuffle, body sways | rears up tall, eyes blaze wide, roars, glow ring → slam squash |
 | **Hollow Twin** (M2, r30) | One pumpkin split down a jagged crack: a glowing glare and scowl on one half, a stitched frown and one red eye in a hollow socket on the other | jagged split, halves offset | pulp + seeds in the split; carved glowing half-face; stitched half-face | halves breathe apart/together | fan: halves part and seeds glow. Dash: halves clamp and lean in |
-| **Harvest Wheel** (M3, r34) | Angry pumpkin hub inside a spiked wooden cartwheel, straw sticking out | spiked ring | wood rim + iron band + 8 spokes + iron spikes; straw tufts; glaring lids + interlocking fangs | wheel rotates with travel | rev-up: spoke blur arcs + sparks, face strains |
+| **Harvest Wheel** (M3, r34) | Angry pumpkin hub inside a spiked wooden cartwheel, straw sticking out | spiked ring | wood rim + iron band + 8 spokes + iron spikes; straw tufts; ember-hot carved eyes at a manic tilt under sharp brows; gritted carved teeth | wheel rotates with travel | rev-up: spoke blur arcs + sparks, eyes narrow to white-hot slits |
 | **The Night Gourd** (final, r46) | A massive dark pumpkin with a fused gold crown, a jagged fanged maw glowing from inside, thorn vines draping like roots | huge body + crown + root skirt | 8 deep ribs, brow ridge, snarling fanged maw (its glow), crown on a twisted stem, vine roots | body breathes, roots curl | volley: maw opens. Vines: roots glow. Rain: eyes flare. Charge: leans in |
 
 Night Gourd phase art: **P1** intact. **P2** glowing crack seams and a chipped ridge. **P3** the top of the shell is broken open,
@@ -96,7 +99,7 @@ The same scene can later host `?sheet=classic` while Classic characters are upgr
 
 1. Kit helpers + cache + review-sheet scene (empty grid).
 2. Trash: Pip, Shade Bat, Candy Skel.
-3. Elite: Jack Wisp, Vine Gourd (+ Vine Gourd tell state).
+3. Elite: Jack Wisp, Skelly Knight (+ Grave Pin tell state; replaced the Vine Gourd in revision 3).
 4. Mini-bosses: Patch Lord, Hollow Twin, Harvest Wheel (tell poses).
 5. The Night Gourd (phases + tells).
 6. Wire into the game and menus, remove the v0 stubs, update `docs/halloween-event.md`.

diff --git a/docs/halloween-event.md b/docs/halloween-event.md
@@ -43,7 +43,7 @@ so preview runs cannot post scores early.
 | Source | Embers |
 | --- | --- |
 | Trash kill (Pip, Shade Bat, Candy Skel) | 1 at 30% |
-| Elite-type kill (Jack Wisp, Vine Gourd) | 1 |
+| Elite-type kill (Jack Wisp, Skelly Knight) | 1 |
 | Elite spawn (8× HP "ELITE INCOMING") | 6 |
 | Mini-boss kill | 15 |
 | Night Gourd kill | 30 |
@@ -86,14 +86,14 @@ Enemies scale by **tier** = 4 × (N − 1) + rituals cleared in the current rank
 | 8 | Rank 3 start | 50.6 | 1.48 | 3.00 | 11.6 |
 
 While a ritual is in progress, spawn rate × 0.55 (same as Classic during a boss). Elite spawns
-come every 42 s (first at 45 s), drawn from Jack Wisp / Vine Gourd from tier 2 onwards.
+come every 42 s (first at 45 s), drawn from Jack Wisp / Skelly Knight from tier 2 onwards.
 
 For reference, Classic enemy HP at each boss is ×2.6 / 5.5 / 9.4 / 15.5 / 23.5, so Rank 1 tracks
 Classic and Rank 2+ is the endless climb.
 
 ## Roster: Halloween ETYPE pool (Chunk 3a)
 
-Base stats sit next to the closest Classic type. The art for every enemy below and every boss further down is **Sprite Kit v2**.
+Base stats sit next to the closest Classic type. (The Skelly Knight replaced the Vine Gourd on 25 Oct and kept its slot, numbers and snare role.) The art for every enemy below and every boss further down is **Sprite Kit v2**.
 Character briefs, palette ramps and the detail budget live in `docs/sprite-kit.md`; review it live at `?sheet=halloween`.
 
 | Key | Name | Role | HP | Speed | Radius | Damage | XP | Behaviour | Classic ref |
@@ -102,7 +102,7 @@ Character briefs, palette ramps and the detail budget live in `docs/sprite-kit.m
 | `shade` | Shade Bat | Trash · flyer | 6 | 64 | 7 | 4 | 1 | bat flutter; 4% of spawns are a flock of 6 | bat 6/62 |
 | `cskel` | Candy Skel | Trash · walker | 34 | 30 | 10 | 9 | 3 | steady walker | skel 34/30 |
 | `jwisp` | Jack Wisp | Elite · elusive | 30 | 70 | 8 | 9 | 4 | spirals in like a wisp and flickers | wisp 38/70 |
-| `vgourd` | Vine Gourd | Elite · snare | 60 | 26 | 11 | 11 | 5 | inside 170 range, plants a thorn snare every 4–6 s (telegraphed circle r 26 over 1.0 s; hit = its damage + 50% slow for 1.2 s) | vine 40/40 |
+| `sknight` | Skelly Knight | Elite · snare (Grave Pin) | 60 | 26 | 11 | 11 | 5 | inside 170 range, every 4–6 s raises its sword (the tell) and pins the ground under you: bone spikes in a telegraphed circle (r 26 over 1.0 s; hit = its damage + 50% slow for 1.2 s) | vine 40/40 |
 
 Spawn pool by tier:
 
@@ -111,7 +111,7 @@ Spawn pool by tier:
 | 0 | Pip ×3, Shade Bat |
 | 1 | Pip ×2, Shade Bat ×2, Candy Skel |
 | 2 | + Jack Wisp |
-| 3+ | Pip, Shade Bat ×2, Candy Skel ×2, Jack Wisp, Vine Gourd |
+| 3+ | Pip, Shade Bat ×2, Candy Skel ×2, Jack Wisp, Skelly Knight |
 
 ## Mini-bosses (Chunk 3b)
 
